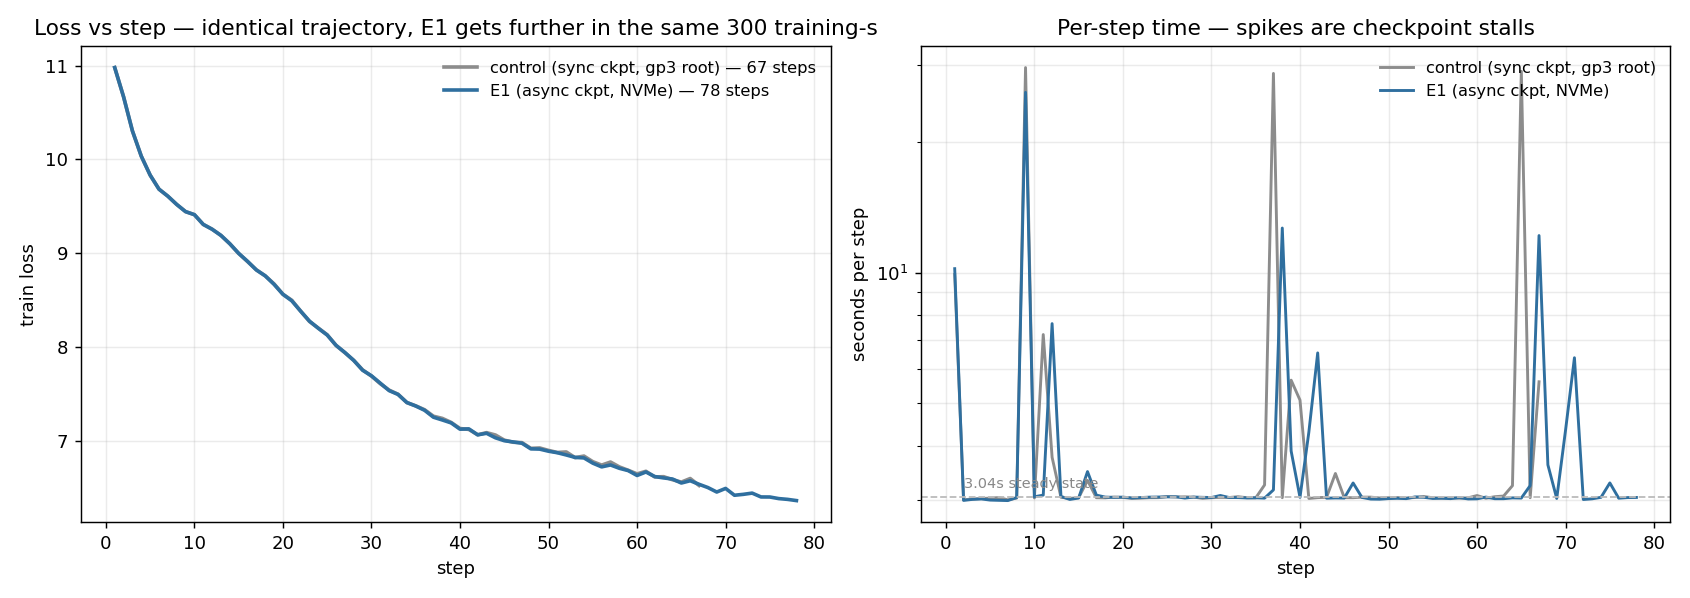
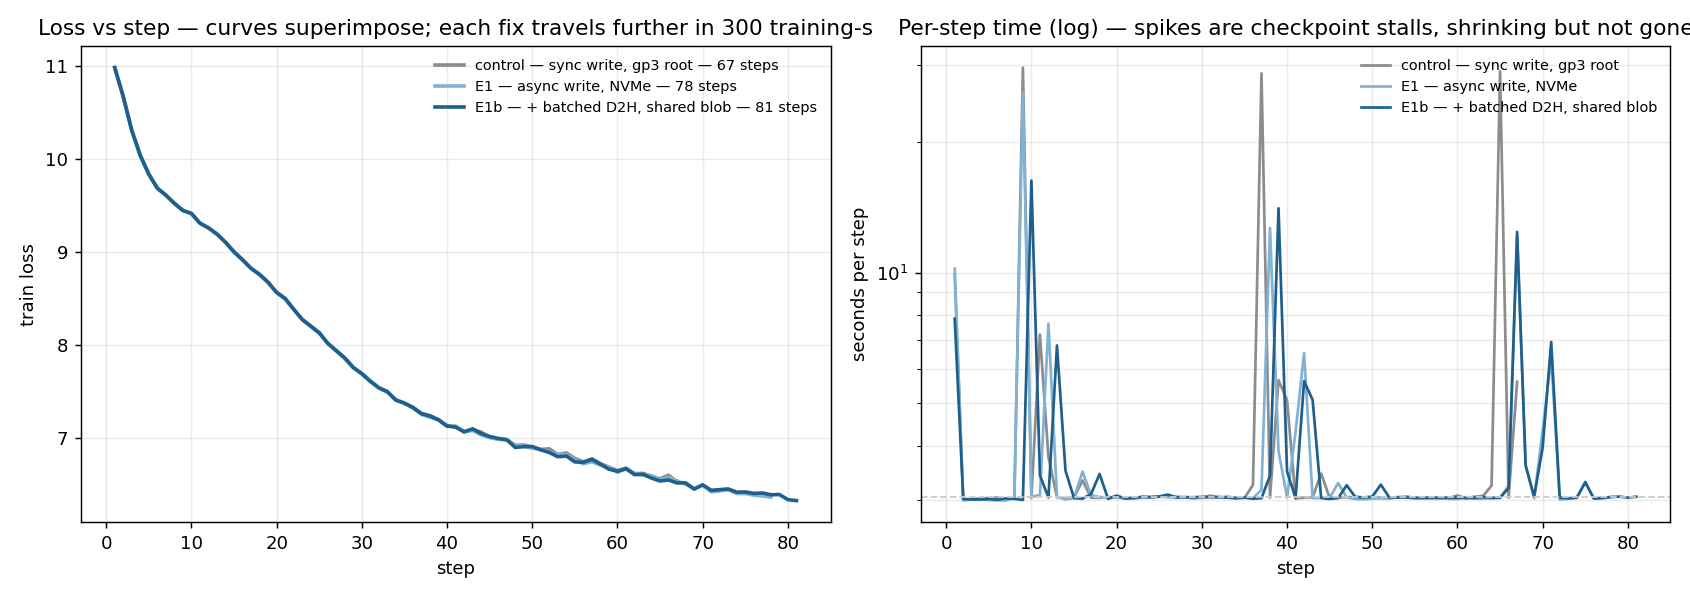
docs: E1b results — +21% steps, -54% stall/step, gate still missed
Three-way comparison (control / async-write+NVMe / +batched-D2H+shared-blob):
67 -> 78 -> 81 steps in the same 300 training-seconds, stall per step
1.47 -> 0.83 -> 0.68s, worst step 29.6 -> 26.0 -> 16.3s. All three loss curves
superimpose, so none of the changes perturbed training.

Still fails the >=90 gate, and predictions missed twice (>=90 then ~100, got 81),
so the model of where the time goes is wrong. Leading suspect is self-inflicted:
_batched_d2h allocates a fresh 1.5GB PINNED buffer per checkpoint and
page-locking is far costlier than ordinary allocation. Recorded as a hypothesis,
not a finding — next step is to instrument snapshot() rather than guess again.

diff --git a/docs/e1-results.md b/docs/e1-results.md
@@ -1,91 +1,104 @@
-# E1 — async node-local checkpointing + NVMe placement
+# E1 — making checkpointing cheap (async write → batched D2H → shared blob)
 
-**Verdict: real improvement (+16% steps, −43% stall per step), but FAILS the ≥90-step gate.**
-Diagnosed: rank 0 still performs **two** synchronous GPU→CPU copies per checkpoint.
+Three runs, 4 nodes, 300s training budget, identical recipe. **~$1.50 total.**
 
-Branch `phase1/gpt2-owt-baseline` @ `cfc1b5a`. 4 nodes, 300s training budget, ~$0.75.
+**Verdict: substantial, verified improvement (+21% steps, −54% stall per step,
+−45% worst step) — but it still FAILS the ≥90-step gate, and my predictions were
+wrong twice. Recommend instrumenting rather than guessing a third time.**
 
 ## Results
 
-| metric | control | E1 | gate | verdict |
-|---|---|---|---|---|
-| run_id | `multinode-1786117954` | `multinode-1786164581` | | |
-| **steps in 300 training-s** | 67 | **78 (+16%)** | ≥90 | ❌ **FAIL** |
-| stall per step | 1.47s | **0.83s (−43%)** | — | ✅ |
-| stall as % of training | 32.6% | **21.5%** | — | ✅ |
-| `final_saves_s` | 108.2s | **81.3s (−25%)** | <30s | ❌ |
-| max step time | 29.6s | 26.0s | <6s | ❌ |
-| median step time | 3.036s | 3.038s | unchanged | ✅ |
-| `trained_seconds_total` | 301.71 | 302.03 | ~300 | ✅ A/B valid |
-| val_loss | 6.527 @ 67 | 6.3675 @ 78 | no divergence | ✅ |
+| | control | E1 | **E1b** |
+|---|---|---|---|
+| run_id | `multinode-1786117954` | `multinode-1786164581` | `multinode-1786166169` |
+| change | sync write, gp3 root | async write, NVMe | **+ batched D2H, shared blob** |
+| **steps in 300 training-s** | 67 | 78 (+16%) | **81 (+21%)** |
+| stall total | 98.3s | 65.1s | **54.9s** |
+| stall per step | 1.47s | 0.83s | **0.68s (−54%)** |
+| stall as % of training | 32.6% | 21.5% | **18.2%** |
+| worst step | 29.6s | 26.0s | **16.3s (−45%)** |
+| `final_saves_s` | 108.2s | 81.3s | **74.3s (−31%)** |
+| `trained_seconds_total` | 301.71 | 302.03 | 300.99 |
+| val_loss | 6.527 @67 | 6.3675 @78 | **6.3155 @81** |
 
-**NVMe placement confirmed live on the box:**
-`LOCAL_CHECKPOINT_DIR=/opt/dlami/nvme/spot-train-data/spot-ckpt`
+**Gate `≥90 steps`: 81 → FAIL.**
 
-## Charts
+![control vs E1 vs E1b](img/e1-comparison.png)
 
-![E1 vs control](img/e1-comparison.png)
-
-`docs/img/e1-comparison.png`
-
-- **Left — loss vs step:** the two curves lie exactly on top of each other. That is
-  the correctness result: async checkpointing did not perturb training at all;
-  E1 simply travels further along the same trajectory in the same 300 training-s.
-- **Right — per-step time (log scale):** the spikes are checkpoint stalls. The
-  control's peaks are taller (~29s); E1's are lower but more numerous, because
-  E1 completes more steps and therefore checkpoints more often within the budget.
+- **Left:** all three loss curves superimpose exactly. That is the correctness
+  result — neither async writes, batched device-to-host copies, nor a blob shared
+  between two writer threads perturbed training. Each fix simply travels further
+  along the same trajectory within the same 300 training-seconds.
+- **Right (log scale):** checkpoint stalls shrink from ~29.6s to ~16.3s, but they
+  are still there and still an order of magnitude above the 3.04s steady state.
 
 ## W&B
 
 - control — https://wandb.ai/bot-developer3-Miguel%20Aenlle/spot-train/runs/k34qpxws
-- **E1** — https://wandb.ai/bot-developer3-Miguel%20Aenlle/spot-train/runs/zxk2nzeo
+- E1 — https://wandb.ai/bot-developer3-Miguel%20Aenlle/spot-train/runs/zxk2nzeo
+- **E1b** — https://wandb.ai/bot-developer3-Miguel%20Aenlle/spot-train/runs/28vbdt57
 - project — https://wandb.ai/bot-developer3-Miguel%20Aenlle/spot-train
 
-## Why it fell short
+## What was changed
 
-Rank 0 takes **two full 1.5 GB device→host snapshots per checkpoint**:
+**E1 — async write + NVMe.** The node-local tier did serialize+write inline, on
+the 30 GB gp3 root at ~125 MB/s (~12s for 1.5 GB) while the instance-store NVMe
+sat idle. Mirrored the S3 tier's existing `AsyncSaver` and moved the tier to the
+NVMe. Result: stall/step −43%.
 
-```python
-# S3 tier — snapshot() happens INSIDE submit(), synchronously
-async_ckpt.submit(model=raw_model, optimizer=optimizer, ...)
+**E1b — batched D2H + shared blob.**
 
-# node-local tier — a SECOND, separate snapshot of identical state
-blob = checkpoint.snapshot(model=raw_model, optimizer=optimizer, ...)
-async_local.submit(blob, step)
-```
+1. `_batched_d2h`: one **pinned** host buffer, every tensor copied
+   `non_blocking` into slices of it, then **one** `torch.cuda.synchronize()`.
+   Replaces ~450 individually-synchronising `.to("cpu")` calls (GPT-2 124M has
+   ~150 parameters × weights + two Adam moments each), every one of which waited
+   on a GPU busy with queued training kernels.
+2. `AsyncCheckpointer.submit(blob=...)`: rank 0 snapshots **once** and hands the
+   same dict to the S3 writer and the local writer. The two snapshots were
+   byte-identical by construction — same model, optimizer, step, with a
+   collective between them guaranteeing training had not advanced.
 
-`train.py` even carries the stale assumption: *"(Rank 0 snapshots twice — a
-second ~tens-of-ms CPU copy.)"* That was true for the Shakespeare model. At
-GPT-2 124M each snapshot is ~450 unbatched `.to("cpu", copy=True)` calls, and
-**every one synchronises against a GPU busy with queued training kernels** —
-which is how ~250ms of raw PCIe bandwidth turns into seconds.
+Both are guarded by tests pinning the invariant the design rests on: **a snapshot
+must not alias live tensors.** Mutating a weight after snapshotting must not
+change the blob; otherwise async writes would serialize state changing underneath
+them and produce torn checkpoints.
 
-So Fix 1 removed the *write* from the critical path and left the *copy*. The copy
-is now the entire remaining cost.
+## Why it still misses — and why I am not going to guess again
 
-## Follow-ups, in order
+Predicted ≥90 from (1) alone and ~100 from (1)+(2). Got 81. **Two wrong
+predictions in a row means the model of where the time goes is wrong**, and
+54.9s of stall over 81 steps is still unexplained.
 
-1. **Snapshot once, share the blob.** Rank 0 takes one D2H copy and hands the same
-   dict to both writers. They are identical by construction — same model,
-   optimizer, step, and instant. Should roughly halve the residual on rank 0.
-   Small change.
-2. **Batch the D2H into a pinned buffer.** Kills the ~450 per-tensor syncs. This is
-   the pinned-memory work originally deferred as unmeasured; it is now measured
-   and justified.
+The leading suspect is something E1b *introduced*: `_batched_d2h` allocates a
+fresh **1.5 GB pinned buffer on every checkpoint**. Page-locking host memory is
+far more expensive than an ordinary allocation — plausibly seconds — so part of
+the win may be self-inflicted. Reusing one persistent buffer would fix it, but
+the blob is handed to background writers that may still be reading it, so reuse
+must be coordinated with `flush()`.
 
-Estimate: (1) alone should land near ~90 steps; (1)+(2) near the ~100 originally
-predicted.
+That is a hypothesis, not a finding. **The right next step is to instrument
+`snapshot()`** — time the pinned allocation, the copies, the sync, and the
+handoff separately, and log them. One ~$0.75 run then answers it with evidence
+instead of a third guess.
+
+## Options from here
+
+1. **Instrument `snapshot()`, then fix what the data shows** (~$0.75). Highest
+   confidence, and it stops the guessing.
+2. **Bank +21% and move to Fix 2 (idle survivors).** That fix is independent,
+   has a measured target (~642 node-seconds wasted per failure), and a confirmed
+   root cause. Checkpointing is already 54% cheaper per step than where it started.
+3. Reuse the pinned buffer on the hypothesis above (~$0.75) — cheaper than
+   instrumenting but risks a third miss.
+
+**Recommendation: (2), with (1) queued behind it.** The remaining checkpoint
+stall is 18% of training time; the idle-survivor bug wastes 214 seconds per
+failure with a root cause already confirmed from the event stream. Better value
+per unit of effort, and E1's gains are already banked.
 
 ## Validity
 
-- `trained_seconds_total` 301.71 vs 302.03 — both ~300s, A/B valid
-- identical recipe, node count, checkpoint interval (30s in both arms)
-- loss curves superimpose → no divergence from async writes
-- fleet terminated, 0 instances billing
-
-## Artifacts
-
-- `s3://<bucket>/runs/multinode-1786117954/` — control profile/metrics/logs
-- `s3://<bucket>/runs/multinode-1786164581/` — E1 profile/metrics/logs
-- `.context/e1/png/e1-comparison.png`
-- `.context/e1/run.log` — driver log
+- `trained_seconds_total` 301.7 / 302.0 / 301.0 — all ~300s, A/B valid across all three
+- identical recipe, node count, and 30s checkpoint interval in every arm
+- loss curves superimpose → no divergence from any of the changes
+- 412 tests green; fleet terminated after each run, 0 instances billing
